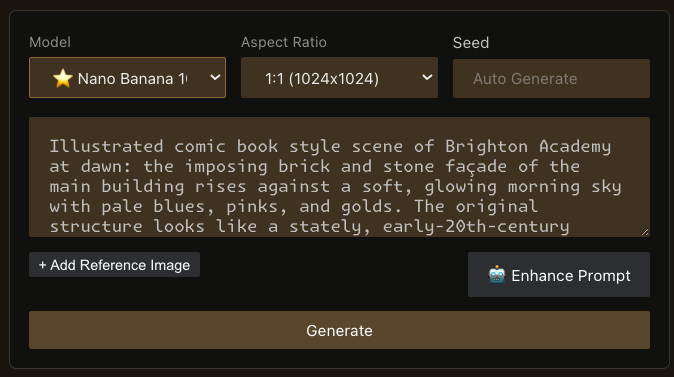
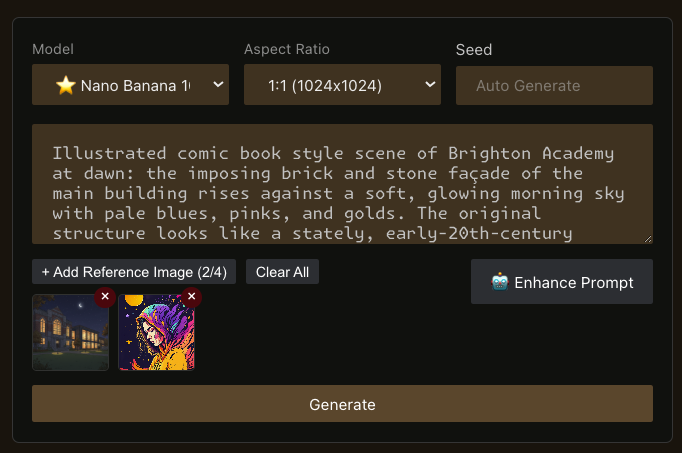
docs: Readme Updates

diff --git a/README.md b/README.md
@@ -8,7 +8,7 @@
 </p>
 
 <p align="center">
-  Generate images and vector graphics directly in your editor using cutting-edge AI models via OpenRouter.
+  Generate images and svgs ( vector graphics ) directly in your editor using cutting-edge AI models like Flux, Nano Banana, Chat GPT, and more via OpenRouter.
 </p>
 
 <p align="center">
@@ -27,18 +27,24 @@
 </p>
 
 ---
+<p align="center">
+<details>
+<summary><strong>📸 Screenshot Gallery</strong> (click to expand)</summary>
 
-## What's New in v0.1.0
+<p align="center">
+  <img src="screenshots/image-generation-multiturn.png" alt="Image Generation" width="600"/>
+</p>
 
-> **Image Generation** - Text-to-image and image-to-image generation powered by Gemini, GPT-5, and FLUX models
->
-> **SVG Generation** - Create vector graphics as code using text models (Gemini Pro, Claude Opus, GPT-5.1 Codex)
->
-> **Multi-Turn Conversations** - Refine your images and SVGs through iterative prompts
->
-> **Token Usage Tracking** - Real-time token and cost display per turn
->
-> **Reference Image Support** - Use existing images or SVGs as context for generation
+<p align="center">
+  <img src="screenshots/svg-book-colorize-with-code.png" alt="SVG Colorize" width="600"/>
+</p>
+
+<p align="center">
+  <img src="screenshots/svg-code-view.png" alt="SVG Code View" width="600"/>
+</p>
+
+</details>
+</p>
 
 ---
 
@@ -46,15 +52,14 @@
 
 Pixel Minion provides two powerful generation tabs in a dedicated sidebar panel:
 
-- **Image Generation** - Text-to-image and image-to-image via OpenRouter image models
-- **SVG Generation** - Generate vector graphics as code using text models
+- **Image Generation** - Text-to-image and image-to-image generation powered by Gemini, GPT-5, and FLUX models
+- **SVG Generation** - Create vector graphics as code using text models (Gemini Pro, Claude Opus, GPT-5.1 Codex)
+- **Multi-Turn Conversations** - Refine your images and SVGs through iterative prompts
+- **Token Usage Tracking** - Real-time token and cost display per turn
+- **Reference Image Support** - Use existing images and SVGs as context for generation
 - **Settings** - Model selection, API key management, and output configuration
 
 > **Tip:** For best experience, **widen your sidebar** to give Pixel Minion room to display all its features comfortably.
-
-<p align="center">
-  <img src="screenshots/image-generation-multiturn.png" alt="Image Generation" width="400"/>
-</p>
 
 ---
 
@@ -62,7 +67,7 @@ Pixel Minion provides two powerful generation tabs in a dedicated sidebar panel:
 
 ### Installation
 
-1. Install from the [VS Code Marketplace](https://marketplace.visualstudio.com/) (coming soon)
+1. Install from the [VS Code Marketplace](https://marketplace.visualstudio.com/)
 2. Open the Pixel Minion panel from the activity bar (icon in sidebar)
 3. Configure your OpenRouter API key in Settings (gear icon)
 4. Start generating!
@@ -98,10 +103,9 @@ Click the **gear icon** in the Pixel Minion panel header to open settings.
    - Your key is securely stored in your OS keychain
    - Changes save automatically
 
-3. **Choose Your Models** (optional):
-   - Select different models for Image and SVG generation
-   - Balance cost vs. quality based on your needs
-   - Default models work great out of the box
+<p align="center">
+  <img src="screenshots/settings-apikey.png" alt="Image Generation Controls" width="500"/>
+</p>
 
 ---
 
@@ -119,7 +123,7 @@ Generate images from text prompts or refine existing images with AI.
 
 - **Text-to-Image** - Describe what you want, get an image
 - **Image-to-Image** - Upload reference images for context
-- **SVG Context** - Attach SVG files as text context for the AI
+- **SVG Context** - Attach SVG files in Image-to-Image
 - **Multi-Turn Conversations** - Refine results through iterative prompts
 - **Aspect Ratio Control** - Choose from 1:1, 16:9, 9:16, 4:3, 3:4
 - **Seed Control** - Set a seed for reproducible results
@@ -149,6 +153,11 @@ Generate images from text prompts or refine existing images with AI.
 </p>
 <p align="center"><em>Refine your images through multi-turn conversations</em></p>
 
+<p align="center">
+  <img src="screenshots/image-result-card.png" alt="Multi-turn Refinement" width="500"/>
+</p>
+<p align="center"><em>Copy Randomly Generated Seed to Clipboard | Click To Save Image To Open Project</em></p>
+
 ---
 
 ### SVG Generation
@@ -167,14 +176,15 @@ Generate vector graphics as code using powerful text models.
 - **Code View** - View and copy the raw SVG code
 - **Multi-Turn Conversations** - Refine your SVG through iteration
 - **Token Usage** - See tokens and cost per generation
+- **Easy Debug View** - Click "Bug" in top right corner to launch output and view errors or console messages.
 
 **Available Models:**
 
 | Model | Description |
 |-------|-------------|
-| **GPT-5.1 Codex** | Default - OpenAI's code-optimized model |
-| **Gemini Pro 3.0** | Google's latest text model |
-| **Claude Opus 4.5** | Anthropic's frontier model |
+| **GPT-5.1 Codex** | Default - OpenAI's code-optimized model / **Recommended** |
+| **Gemini Pro 3.0** | Google's latest text model / *Runner up* |
+| **Claude Opus 4.5** | Anthropic's frontier model / Ok |
 
 **Best Practices:**
 
@@ -187,6 +197,16 @@ Generate vector graphics as code using powerful text models.
   <img src="screenshots/svg-multisize-thumbnails.png" alt="SVG Multi-Size Preview" width="500"/>
 </p>
 <p align="center"><em>Preview your SVG at 32px, 64px, and 128px to verify scalability</em></p>
+
+<p align="center">
+  <img src="screenshots/svg-code-view.png" alt="SVG Multi-Size Preview" width="500"/>
+</p>
+<p align="center"><em>Easily Review/Copy Code From Generated SVG </em></p>
+
+<p align="center">
+  <img src="screenshots/animate-svgs.png" alt="SVG Multi-Size Preview" width="500"/>
+</p>
+<p align="center"><em>Animate SVGs</em></p>
 
 ---
 
@@ -201,7 +221,6 @@ Click the **gear icon** in the Pixel Minion header for settings:
 ### General Settings
 
 - **OpenRouter API Key** - Securely stored in OS keychain
-- **Output Directory** - Where generated files are saved (default: `pixel-minion/`)
 
 ### Model Selection
 
@@ -210,13 +229,38 @@ Click the **gear icon** in the Pixel Minion header for settings:
 
 All settings save automatically and sync with your VS Code preferences.
 
+<p align="center">
+  <img src="screenshots/settings-models.png" alt="SVG Multi-Size Preview" width="500"/>
+</p>
+<p align="center"><em>Manually Override Model IDs from Dropdowns</em></p>
+
+<p align="center">
+  <img src="screenshots/header-icons.png" alt="SVG Multi-Size Preview" width="500"/>
+</p>
+<p align="center"><em>View Debug Window by Clicking the Bug</em></p>
+
+<p align="center">
+  <img src="screenshots/output-logs.png" alt="SVG Multi-Size Preview" width="500"/>
+</p>
+<p align="center"><em>Clear Output Logging</em></p>
+
+<p align="center">
+  <img src="screenshots/header-token-counter.png" alt="SVG Multi-Size Preview" width="500"/>
+</p>
+<p align="center"><em>Keep Track of Tokens & Cost</em></p>
+
+<p align="center">
+  <img src="screenshots/settings-token-usage.png" alt="SVG Multi-Size Preview" width="500"/>
+</p>
+<p align="center"><em>Reset Token Usage In Settings</em></p>
+
 ---
 
 ## Use Cases
 
 ### For Game Developers
 
-- Generate sprites and game assets
+- Generate sprites
 - Create icons at multiple sizes
 - Prototype visual concepts quickly
 
@@ -253,7 +297,7 @@ Built with **Clean Architecture** principles:
 ### Privacy & Security
 
 - **Secure API Key Storage** - Keys stored in OS keychain (Keychain Access, Credential Manager, libsecret) via VS Code SecretStorage
-- **No Logging** - Your prompts and images stay in your workspace
+- **No Logging** - Extension communicates directly with OpenRouter and does not log to any other parties.
 - **No Training** - Configure OpenRouter models to opt-out of training data
 
 ### Requirements
